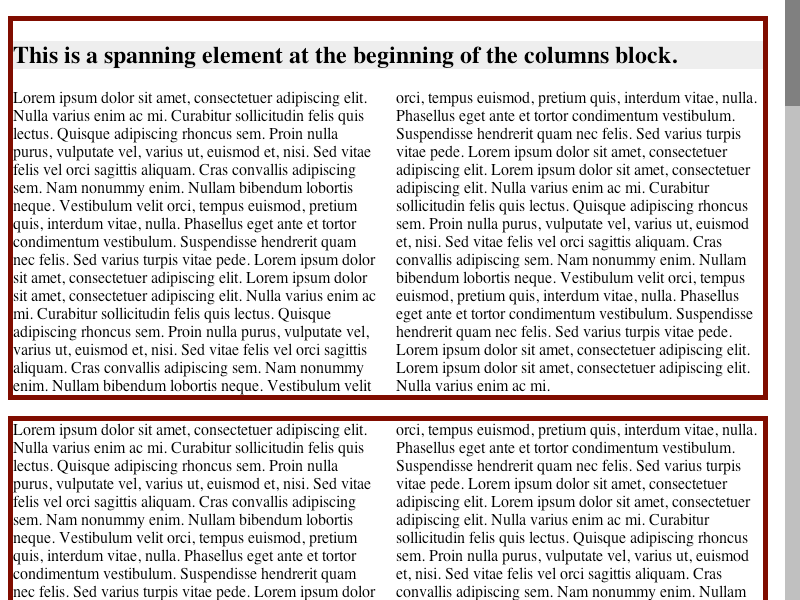
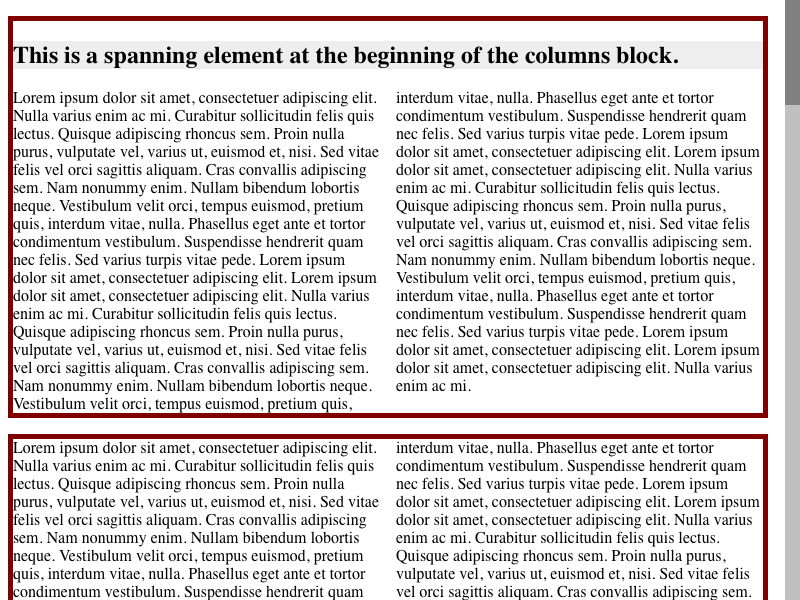
Fix for unsplittable content being paginated by columns.
git-svn-id: https://svn.webkit.org/repository/webkit/trunk@180364 268f45cc-cd09-0410-ab3c-d52691b4dbfc

diff --git a/LayoutTests/fast/multicol/inline-table-dynamic-movement.html b/LayoutTests/fast/multicol/inline-table-dynamic-movement.html
@@ -1,0 +1,21 @@
+
+<script>
+function doIt()
+{
+document.getElementById('test').offsetHeight
+document.getElementById('test').style.height = '500px';
+}
+</script>
+
+<div id='test' style="-webkit-columns:2; height:400px; border:3px solid black; -webkit-column-fill: auto"><div style="height:150px; background-color:lime"></div>
+
+<table style="display:inline-table; height:300px"><tr><td style="vertical-align:middle; height:100%">Hello world<br><img style="height:250px;width:175px; background-color:purple">
+<td style="vertical-align:middle; height:100%">Also world<br>
+<img style="height:250px;width:175px; background-color:purple">
+</table>
+
+</div>
+
+<script>
+doIt()
+</script>

diff --git a/LayoutTests/fast/multicol/inline-table-dynamic-movement-expected.html b/LayoutTests/fast/multicol/inline-table-dynamic-movement-expected.html
@@ -1,0 +1,9 @@
+
+
+<div id='test' style="-webkit-columns:2; height:500px; border:3px solid black; -webkit-column-fill: auto"><div style="height:150px; background-color:lime"></div>
+
+<table style="display:inline-table; height:300px"><tr><td style="vertical-align:middle; height:100%">Hello world<br><img style="height:250px;width:175px; background-color:purple">
+<td style="vertical-align:middle; height:100%">Also world<br>
+<img style="height:250px;width:175px; background-color:purple">
+</table>
+

diff --git a/Source/WebCore/rendering/RenderBlockFlow.cpp b/Source/WebCore/rendering/RenderBlockFlow.cpp
@@ -1850,25 +1850,34 @@ LayoutUnit RenderBlockFlow::nextPageLogicalTop(LayoutUnit logicalOffset, PageBou
 
 LayoutUnit RenderBlockFlow::pageLogicalTopForOffset(LayoutUnit offset) const
 {
+    // Unsplittable objects clear out the pageLogicalHeight in the layout state as a way of signaling that no
+    // pagination should occur. Therefore we have to check this first and bail if the value has been set to 0.
+    LayoutUnit pageLogicalHeight = view().layoutState()->m_pageLogicalHeight;
+    if (!pageLogicalHeight)
+        return 0;
+
     LayoutUnit firstPageLogicalTop = isHorizontalWritingMode() ? view().layoutState()->m_pageOffset.height() : view().layoutState()->m_pageOffset.width();
     LayoutUnit blockLogicalTop = isHorizontalWritingMode() ? view().layoutState()->m_layoutOffset.height() : view().layoutState()->m_layoutOffset.width();
 
     LayoutUnit cumulativeOffset = offset + blockLogicalTop;
     RenderFlowThread* flowThread = flowThreadContainingBlock();
-    if (!flowThread) {
-        LayoutUnit pageLogicalHeight = view().layoutState()->pageLogicalHeight();
-        if (!pageLogicalHeight)
-            return 0;
+    if (!flowThread)
         return cumulativeOffset - roundToInt(cumulativeOffset - firstPageLogicalTop) % roundToInt(pageLogicalHeight);
-    }
     return firstPageLogicalTop + flowThread->pageLogicalTopForOffset(cumulativeOffset - firstPageLogicalTop);
 }
 
 LayoutUnit RenderBlockFlow::pageLogicalHeightForOffset(LayoutUnit offset) const
 {
+    // Unsplittable objects clear out the pageLogicalHeight in the layout state as a way of signaling that no
+    // pagination should occur. Therefore we have to check this first and bail if the value has been set to 0.
+    LayoutUnit pageLogicalHeight = view().layoutState()->m_pageLogicalHeight;
+    if (!pageLogicalHeight)
+        return 0;
+    
+    // Now check for a flow thread.
     RenderFlowThread* flowThread = flowThreadContainingBlock();
     if (!flowThread)
-        return view().layoutState()->m_pageLogicalHeight;
+        return pageLogicalHeight;
     return flowThread->pageLogicalHeightForOffset(offset + offsetFromLogicalTopOfFirstPage());
 }
 

diff --git a/Source/WebCore/rendering/RenderMultiColumnSet.cpp b/Source/WebCore/rendering/RenderMultiColumnSet.cpp
@@ -42,6 +42,7 @@ RenderMultiColumnSet::RenderMultiColumnSet(RenderFlowThread& flowThread, Ref<Ren
     , m_computedColumnWidth(0)
     , m_computedColumnHeight(0)
     , m_availableColumnHeight(0)
+    , m_columnHeightComputed(false)
     , m_maxColumnHeight(RenderFlowThread::maxLogicalHeight())
     , m_minSpaceShortage(RenderFlowThread::maxLogicalHeight())
     , m_minimumColumnHeight(0)
@@ -168,6 +169,9 @@ void RenderMultiColumnSet::setAndConstrainColumnHeight(LayoutUnit newHeight)
         if (pageLength)
             m_computedColumnHeight = pageLength;
     }
+    
+    m_columnHeightComputed = true;
+
     // FIXME: the height may also be affected by the enclosing pagination context, if any.
 }
 
@@ -341,6 +345,7 @@ void RenderMultiColumnSet::prepareForLayout(bool initial)
         if (initial) {
             m_computedColumnHeight = 0;
             m_availableColumnHeight = 0;
+            m_columnHeightComputed = false;
         }
     } else
         setAndConstrainColumnHeight(heightAdjustedForSetOffset(multiColumnFlowThread()->columnHeightAvailable()));

diff --git a/Source/WebCore/rendering/RenderMultiColumnSet.h b/Source/WebCore/rendering/RenderMultiColumnSet.h
@@ -71,6 +71,7 @@ public:
     unsigned computedColumnCount() const { return m_computedColumnCount; }
     LayoutUnit computedColumnWidth() const { return m_computedColumnWidth; }
     LayoutUnit computedColumnHeight() const { return m_computedColumnHeight; }
+    bool columnHeightComputed() const { return m_columnHeightComputed; }
 
     void setComputedColumnWidthAndCount(LayoutUnit width, unsigned count)
     {
@@ -191,7 +192,8 @@ private:
     LayoutUnit m_computedColumnWidth; // Used column width (the resulting 'W' from the pseudo-algorithm in the multicol spec)
     LayoutUnit m_computedColumnHeight;
     LayoutUnit m_availableColumnHeight;
-    
+    bool m_columnHeightComputed;
+
     // The following variables are used when balancing the column set.
     LayoutUnit m_maxColumnHeight; // Maximum column height allowed.
     LayoutUnit m_minSpaceShortage; // The smallest amout of space shortage that caused a column break.

diff --git a/Source/WebCore/rendering/RenderMultiColumnFlowThread.cpp b/Source/WebCore/rendering/RenderMultiColumnFlowThread.cpp
@@ -729,7 +729,7 @@ RenderRegion* RenderMultiColumnFlowThread::physicalTranslationFromFlowToRegion(L
 bool RenderMultiColumnFlowThread::isPageLogicalHeightKnown() const
 {
     if (RenderMultiColumnSet* columnSet = lastMultiColumnSet())
-        return columnSet->computedColumnHeight();
+        return columnSet->columnHeightComputed();
     return false;
 }
 
